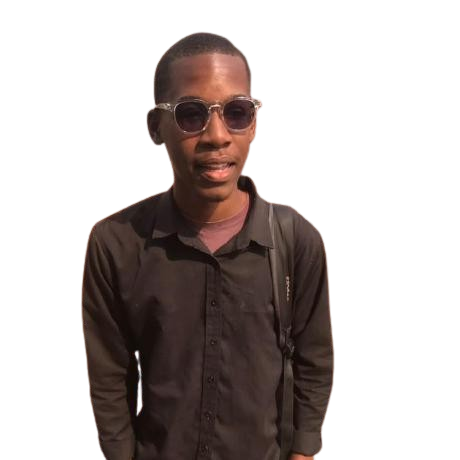
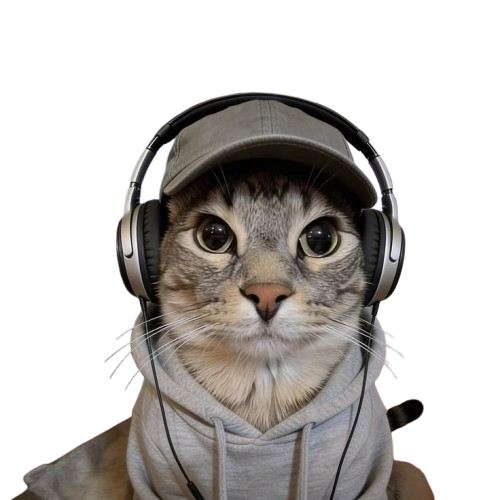
update

diff --git a/src/components/layout/Hero.tsx b/src/components/layout/Hero.tsx
@@ -4,10 +4,8 @@ import { MenuBar } from "../menuBar";
 export default function Hero() {
   return (
     <section className="relative w-full h-screen bg-[#7E7E7E] text-[#FFFFFF] overflow-hidden flex flex-col justify-between pt-20">
-      {/* Container da Foto + Ícone posicionado no fundo */}
       <div className="absolute inset-0 flex items-end justify-center pointer-events-none z-0">
         <div className="relative flex items-end justify-center max-w-[1400px] w-full h-full">
-          {/* Foto de Perfil com tamanho total mantido, apenas cortada na base do container */}
           <div className="relative w-full h-full flex items-end justify-center overflow-hidden">
             <Image
               src="/images/me.png"
@@ -20,7 +18,6 @@ export default function Hero() {
             />
           </div>
 
-          {/* Ícone Arrow */}
           <div className="pointer-events-auto absolute right-[15%] top-[32%] z-10 flex items-center justify-center">
             <Image
               src="/images/arrow_up.png"
@@ -35,11 +32,10 @@ export default function Hero() {
 
       <div className="flex-1" />
 
-      {/* Título e Menu Inferior com z-index para cobrir a base da imagem */}
       <div className="w-full flex flex-col items-center z-20 pb-4">
         <div className="w-full whitespace-nowrap overflow-hidden flex justify-center px-4">
           <h1 className="text-[7.5vw] md:text-[225px] font-medium leading-none tracking-tight text-[#FFFFFF] select-none text-center">
-            Software Engineer &
+            Software Engineer
           </h1>
         </div>
 
